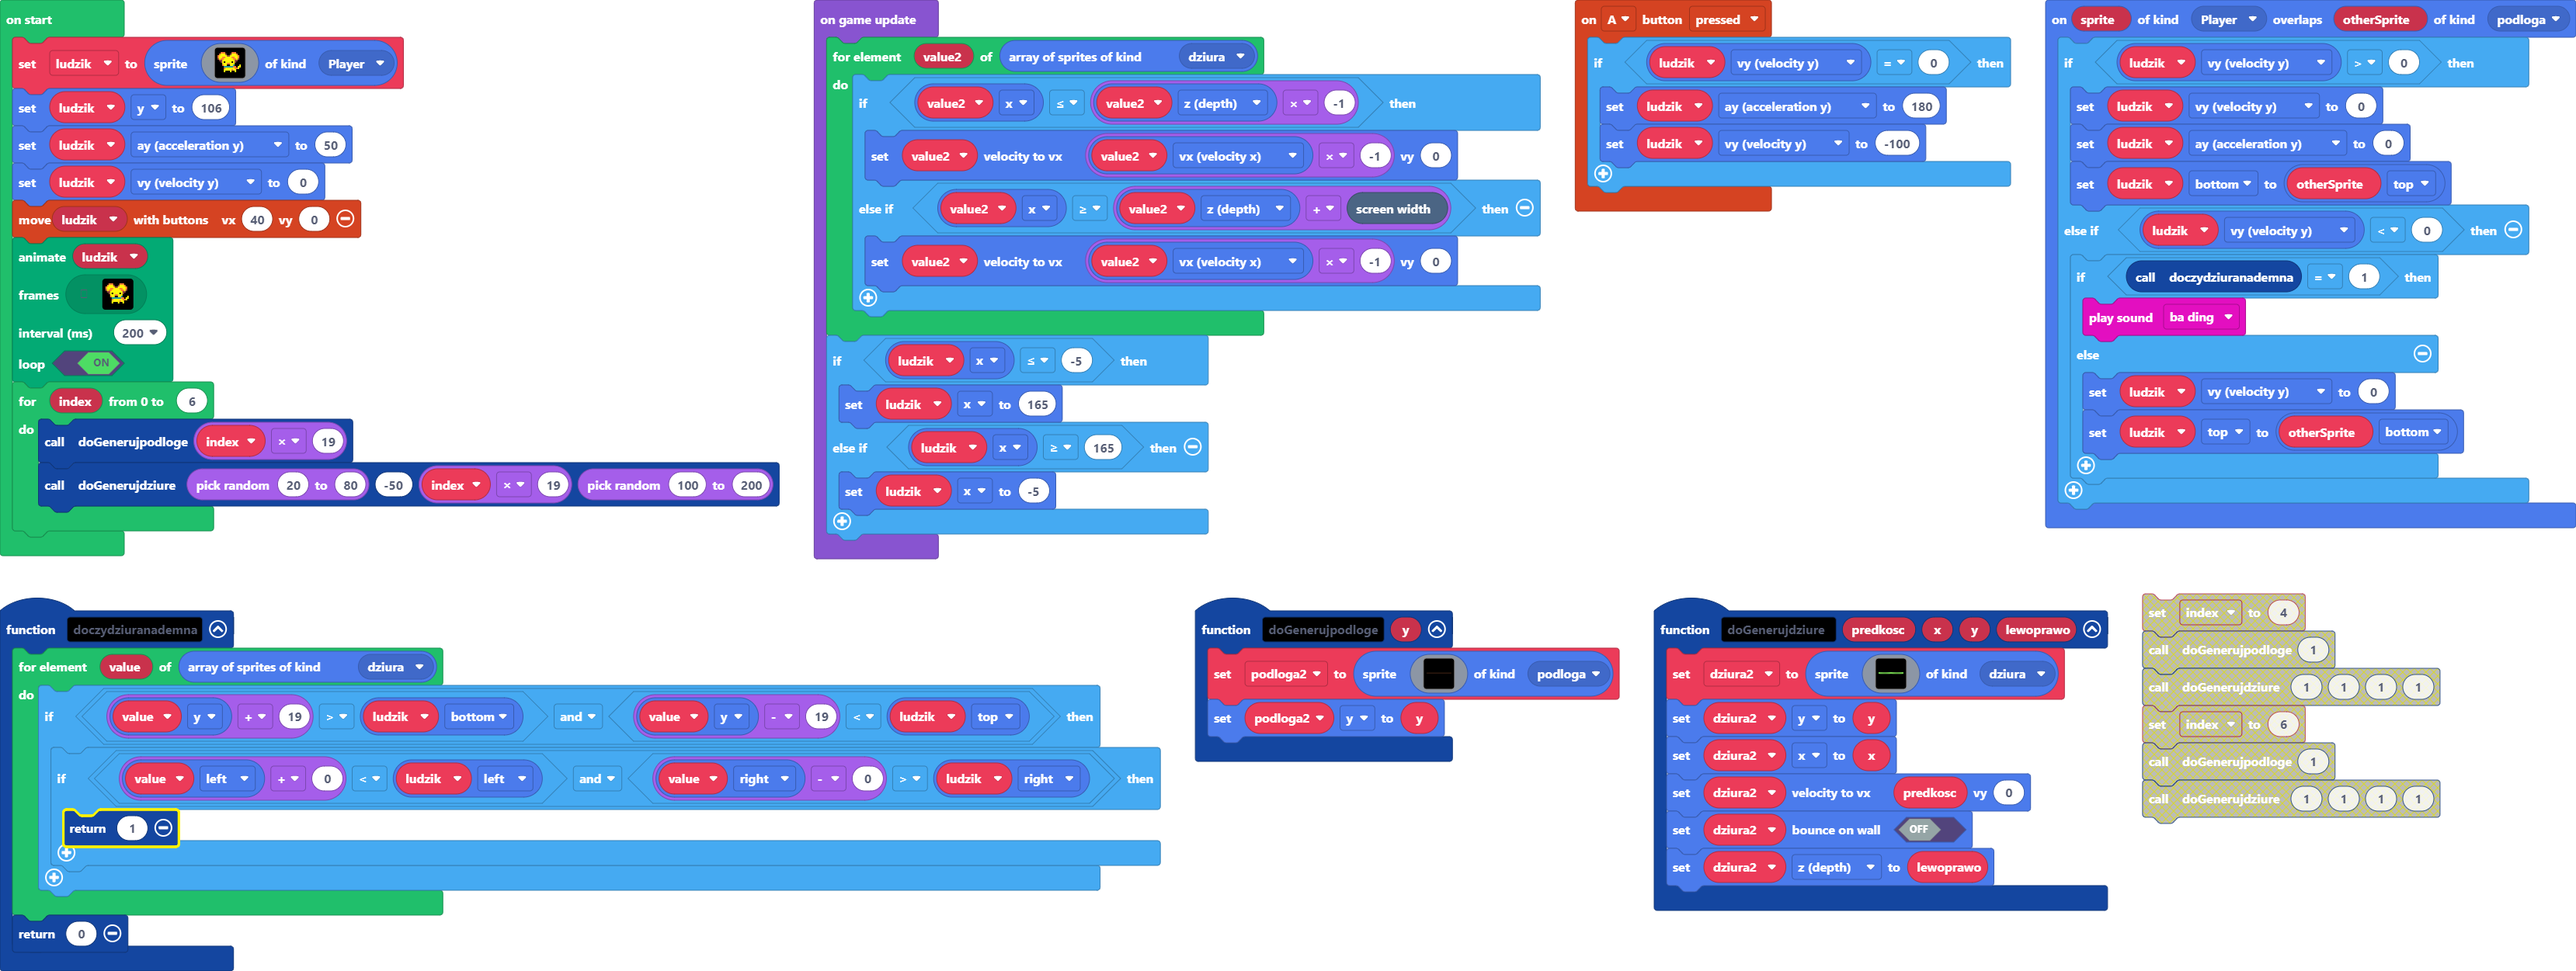
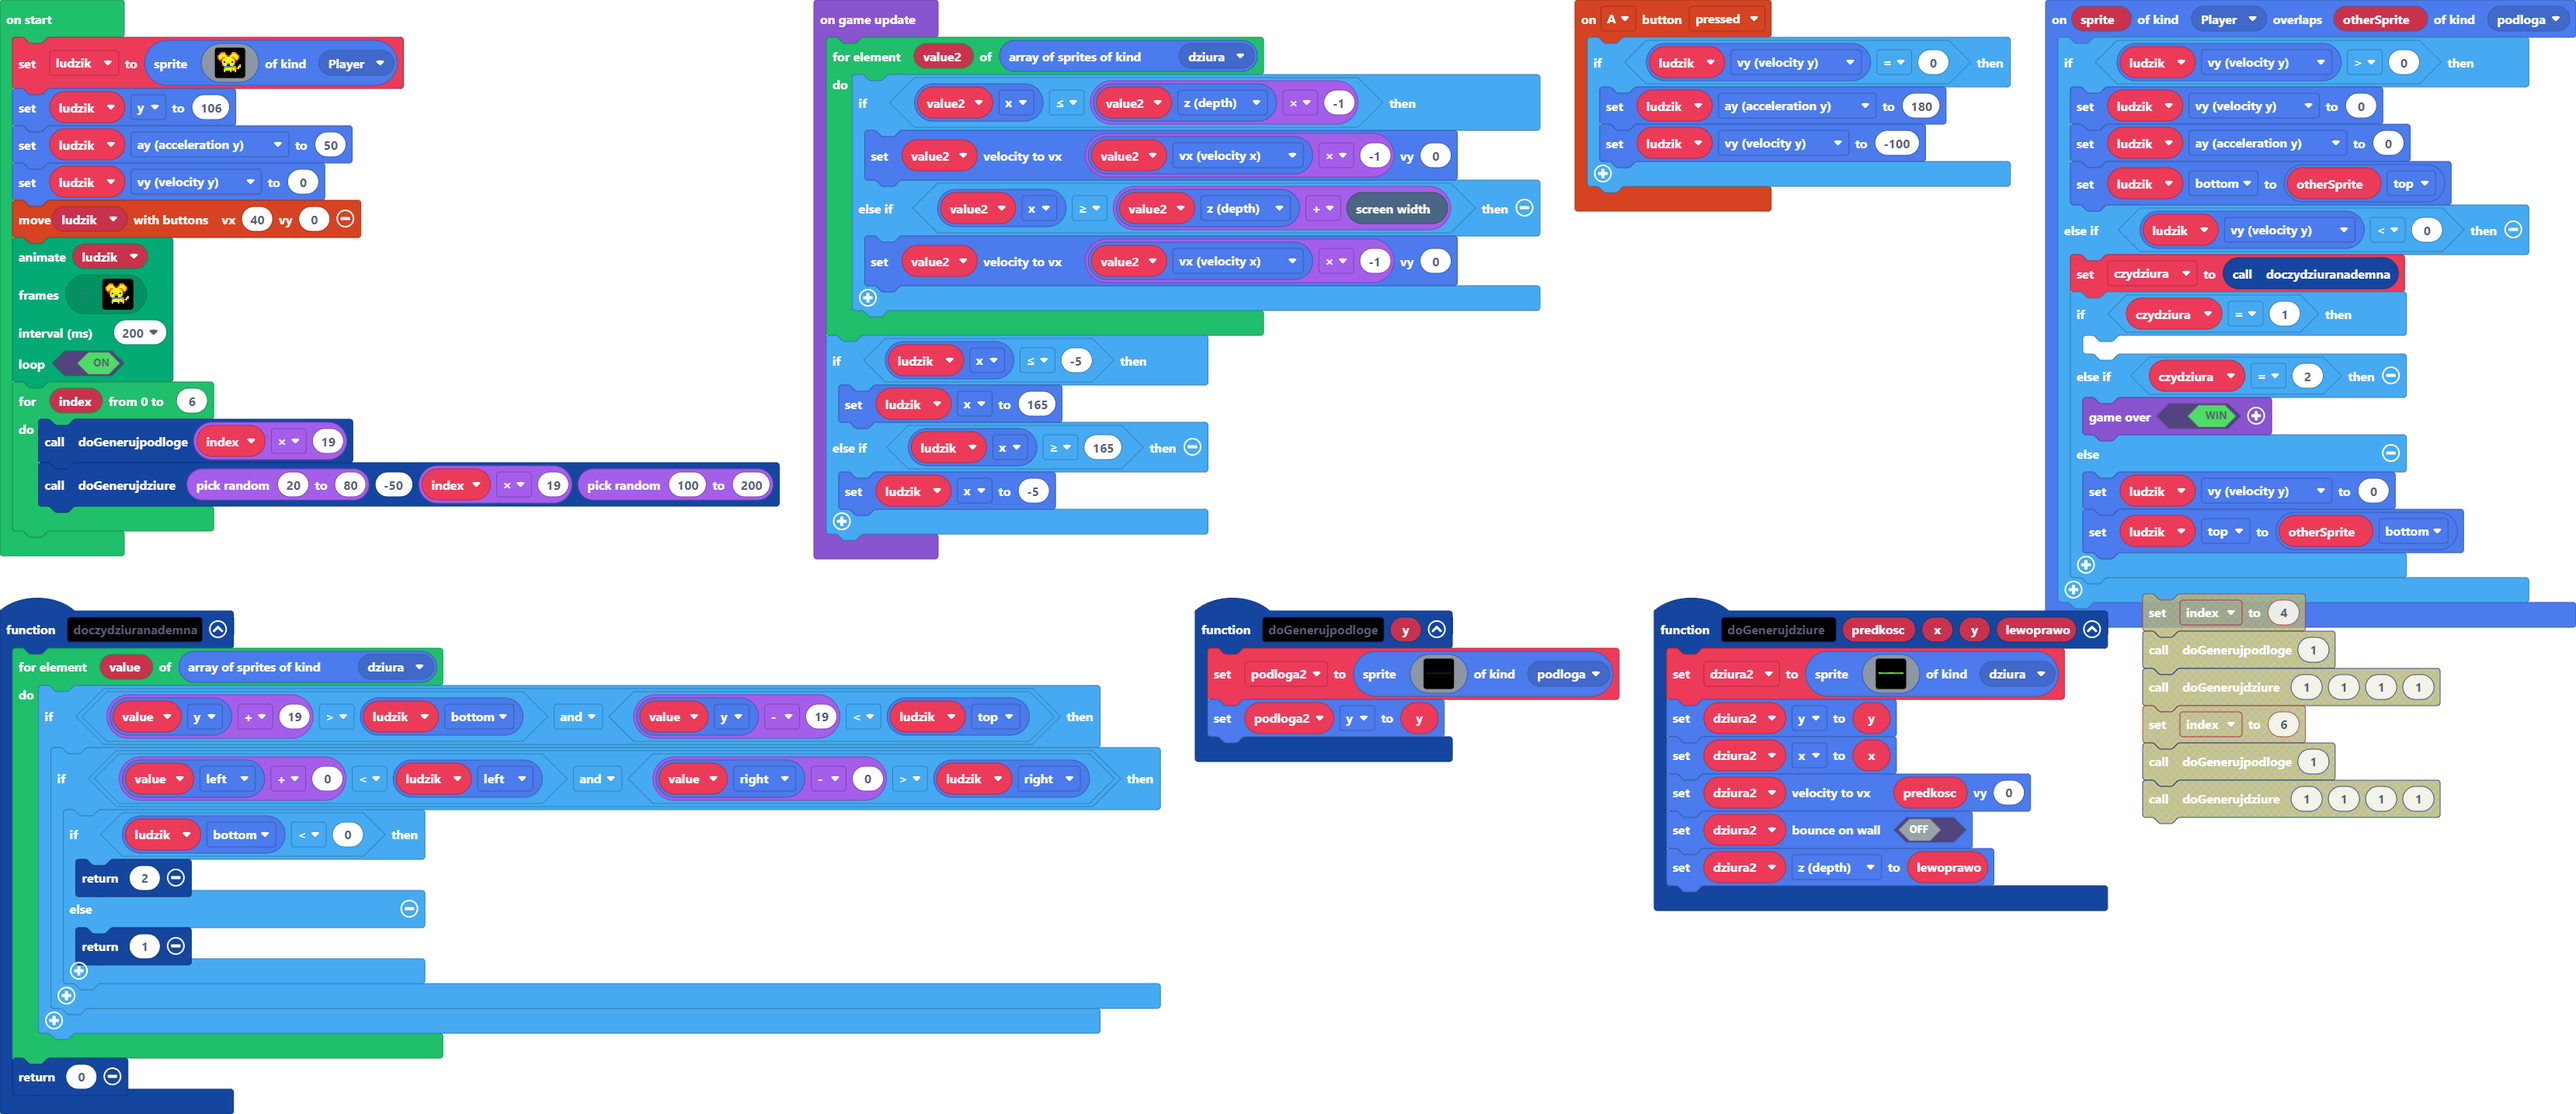
Update main.blocks, main.ts

diff --git a/main.ts b/main.ts
@@ -8,8 +8,11 @@ sprites.onOverlap(SpriteKind.Player, SpriteKind.podloga, function (sprite, other
         ludzik.ay = 0
         ludzik.bottom = otherSprite.top
     } else if (ludzik.vy < 0) {
-        if (doczydziuranademna() == 1) {
-            music.baDing.play()
+        czydziura = doczydziuranademna()
+        if (czydziura == 1) {
+        	
+        } else if (czydziura == 2) {
+            game.over(true)
         } else {
             ludzik.vy = 0
             ludzik.top = otherSprite.bottom
@@ -26,7 +29,11 @@ function doczydziuranademna () {
     for (let value of sprites.allOfKind(SpriteKind.dziura)) {
         if (value.y + 19 > ludzik.bottom && value.y - 19 < ludzik.top) {
             if (value.left + 0 < ludzik.left && value.right - 0 > ludzik.right) {
-                return 1
+                if (ludzik.bottom < 0) {
+                    return 2
+                } else {
+                    return 1
+                }
             }
         }
     }
@@ -52,6 +59,7 @@ function doGenerujdziure (predkosc: number, x: number, y: number, lewoprawo: num
 }
 let dziura2: Sprite = null
 let podloga2: Sprite = null
+let czydziura = 0
 let ludzik: Sprite = null
 ludzik = sprites.create(img`
     . . 4 4 4 . . . . 4 4 4 . . . . 
